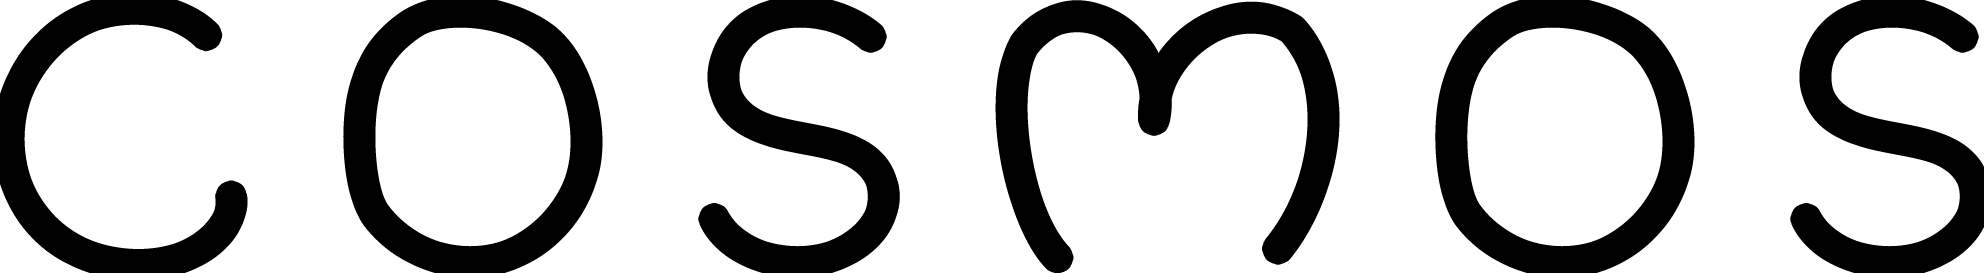
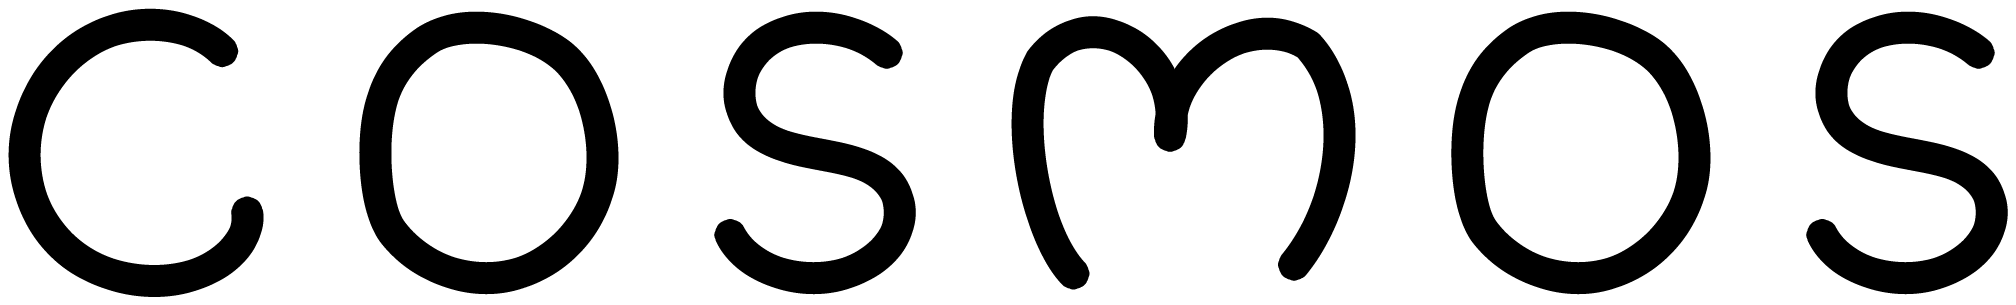
Fix wordmark edge clipping: pad canvas, update aspect-ratio/size, cache-bust

diff --git a/assets/style.css b/assets/style.css
@@ -273,16 +273,16 @@ body.home-zine > * { position: relative; z-index: 1; }
 /* ===== COSMOS wordmark (Sarah's lettering, masked & recolorable) ===== */
 .visually-hidden { position:absolute; width:1px; height:1px; padding:0; margin:-1px; overflow:hidden; clip:rect(0 0 0 0); white-space:nowrap; border:0; }
 .cosmos-wordmark {
-  display:inline-block; aspect-ratio:1984 / 273; background-color:currentColor;
+  display:inline-block; aspect-ratio:2016 / 305; background-color:currentColor;
   -webkit-mask-repeat:no-repeat; mask-repeat:no-repeat;
   -webkit-mask-position:center; mask-position:center;
   -webkit-mask-size:contain; mask-size:contain;
 }
-.brand-wordmark { height:18px; width:auto; flex:none; color:var(--teal-deep);
-  -webkit-mask-image:url(cosmos-wordmark-bold.png); mask-image:url(cosmos-wordmark-bold.png); }
+.brand-wordmark { height:20px; width:auto; flex:none; color:var(--teal-deep);
+  -webkit-mask-image:url(cosmos-wordmark-bold.png?v=2); mask-image:url(cosmos-wordmark-bold.png?v=2); }
 @media (max-width:820px){ .brand-wordmark { display:none; } }   /* mobile: flower only, matches old tag */
-.hero-wordmark { display:block; width:min(440px,82vw); color:var(--teal-deep); margin:0 0 1.1rem; padding:0;
-  -webkit-mask-image:url(cosmos-wordmark-bold.png); mask-image:url(cosmos-wordmark-bold.png); }
+.hero-wordmark { display:block; width:min(490px,86vw); color:var(--teal-deep); margin:0 0 1.1rem; padding:0;
+  -webkit-mask-image:url(cosmos-wordmark-bold.png?v=2); mask-image:url(cosmos-wordmark-bold.png?v=2); }
 .zine-subhead {
   font-family:var(--serif-zine); font-weight:600; color:var(--teal-deep);
   font-size:clamp(1.6rem,4.2vw,2.8rem); line-height:1.04; letter-spacing:-.3px;
